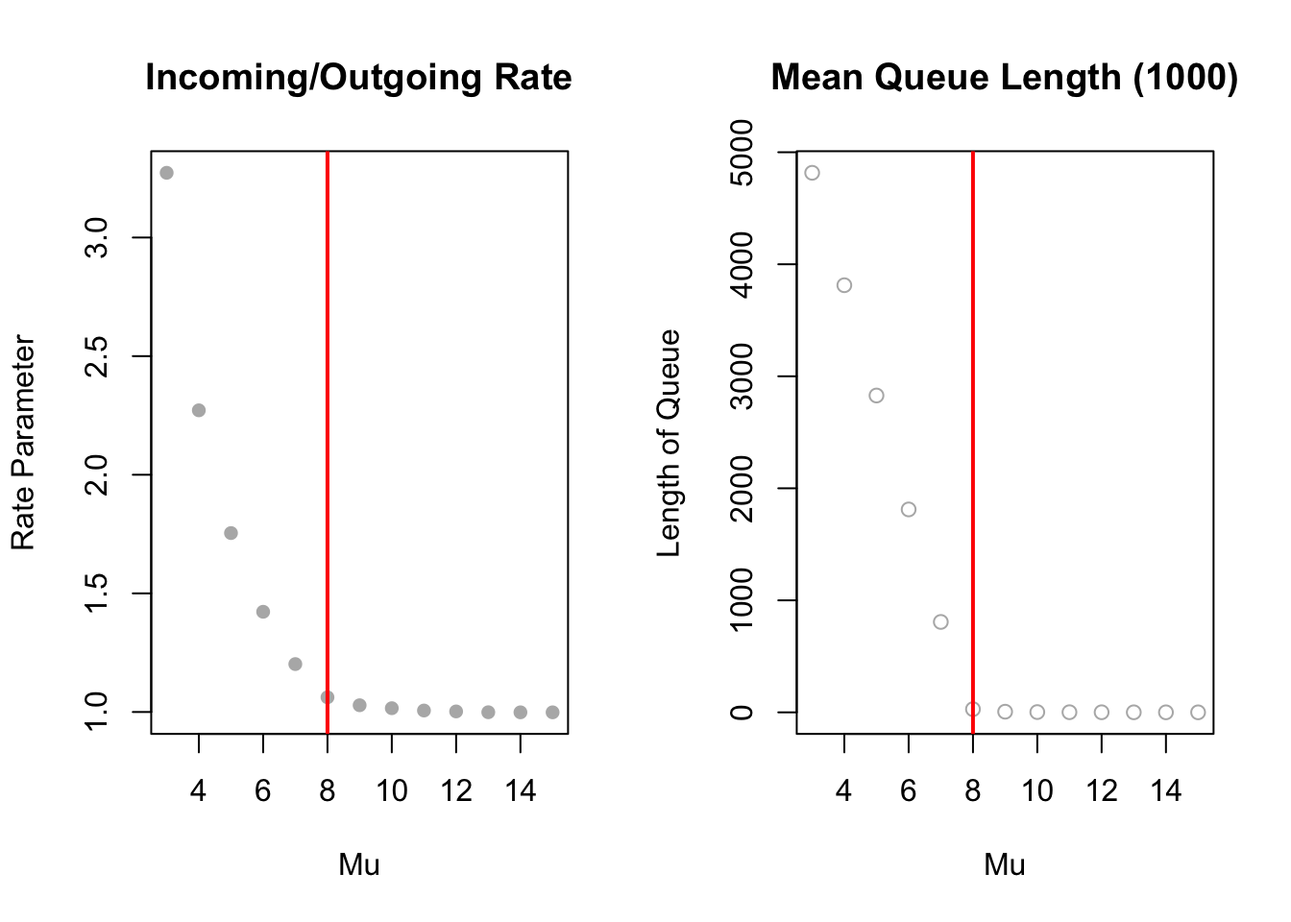
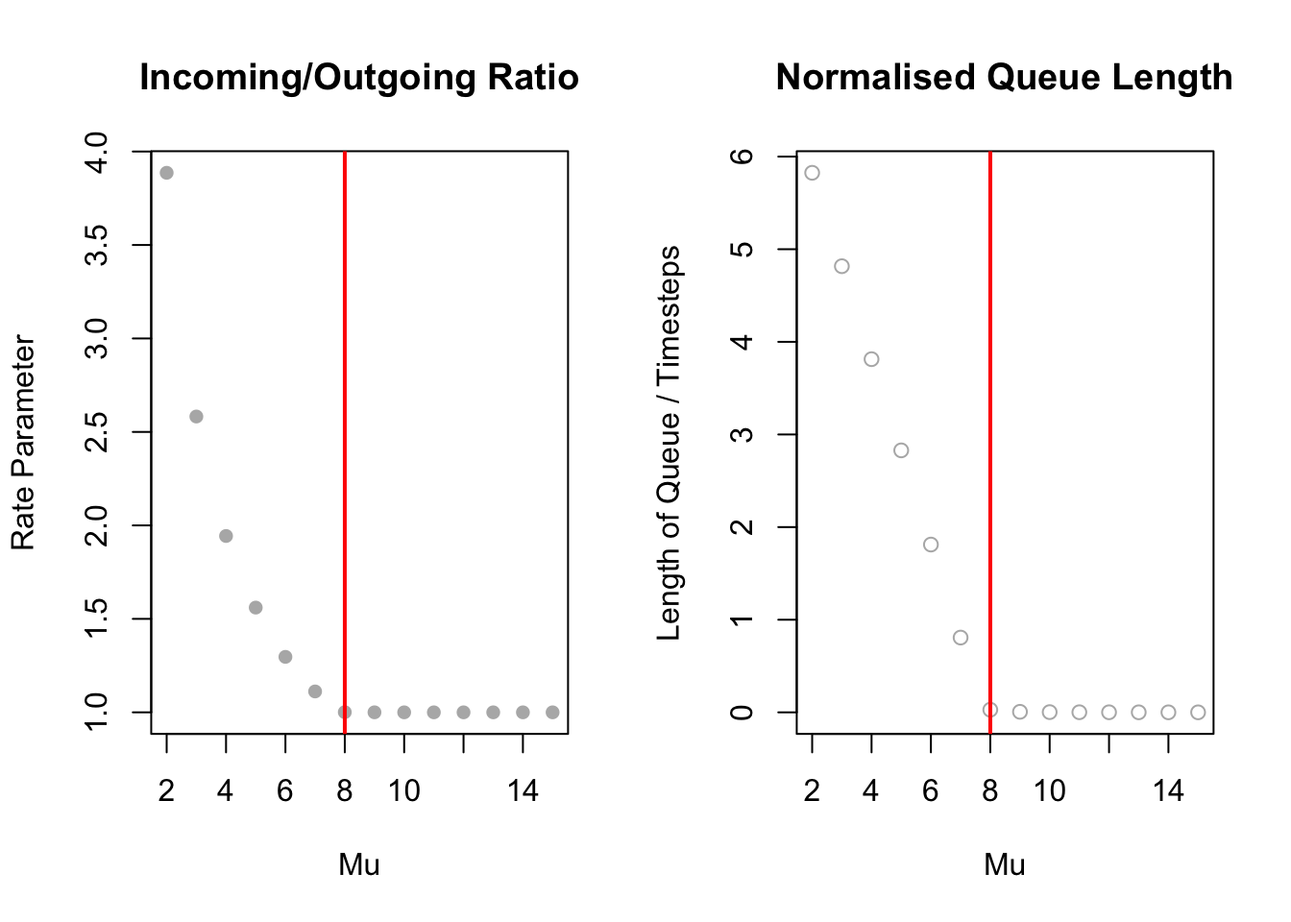
Continued sensitivity analysis

diff --git a/index.html b/index.html
@@ -234,8 +234,8 @@ window.Quarto = {
 <div class="cell-output cell-output-stdout">
 <pre><code>                  Mean Variance
 Dataset       113.2273 161.8030
-NBinom Sim    113.3585 161.2969
-Poisson Sim   113.1233 113.1233</code></pre>
+NBinom Sim    113.3032 160.5631
+Poisson Sim   113.3474 113.3474</code></pre>
 </div>
 </div>
 <p>The Negative Binomial is a much better fit to the original dataset. However, a new concern arises: for the purpose of simulation, we wish to simulate vehicle-counts on a per-minute basis. This will help to increase the granularity of our queuing time results. One possible solution (<em>Method 1</em>) is to simply divide the volume data by 15mins and fit a new model. If we consider this case, our mean will scale by a factor of <span class="math inline">\(\frac{1}{15}\)</span>, and the variance by a factor of <span class="math inline">\(\frac{1}{15^2}\)</span>:</p>
@@ -369,16 +369,9 @@ Departure Rate 3.774242  7.762121  5.790909</code></pre>
 <pre><code>[1] "Maximum length: 1195"</code></pre>
 </div>
 </div>
-<p>While in all cases there is theoretical stability (i.e.&nbsp;the models all return to 0), we can see that a utilisation rate of exactly <span class="math inline">\(1\)</span> is completely unreasonable in a real-world scenario. The 7am model particularly balloons to a queue of just under 1200 vehicles long, with the others reaching more than 400 vehicles each. In reality, a utilisation rate closer to 90% is generally maintained to balance throughput with wait times.</p>
-<p>Focusing on the worst-case scenario (7am), we can reaffirm the visualisions through a summary of the queue length throughout the simulation:</p>
-<div class="cell">
-<div class="code-copy-outer-scaffold"><div class="sourceCode cell-code" id="cb12"><pre class="sourceCode r code-with-copy"><code class="sourceCode r"><span id="cb12-1"><a href="#cb12-1" aria-hidden="true" tabindex="-1"></a><span class="fu">summary</span>(sims[[<span class="dv">2</span>]]<span class="sc">$</span>wlength)</span></code></pre></div><button title="Copy to Clipboard" class="code-copy-button"><i class="bi"></i></button></div>
-<div class="cell-output cell-output-stdout">
-<pre><code>   Min. 1st Qu.  Median    Mean 3rd Qu.    Max. 
-    0.0   530.0   827.0   732.6   995.0  1195.0 </code></pre>
-</div>
-</div>
-<p>This confirms a 100% utilisation rate is unrealistic. We can investigate how sensitive the system is to find a more reasonable mu and its corresponding releaes rate.</p>
+<p>While in all cases there is theoretical stability (i.e.&nbsp;the models will all return to 0), we can see that a utilisation rate of exactly <span class="math inline">\(1\)</span> is completely unreasonable in a real-world scenario. The 7am model particularly balloons to a queue of just under 1200 vehicles long, with the others reaching more than 400 vehicles each. In reality, a utilisation rate closer to 90% is generally maintained to balance throughput with wait times.</p>
+<p>In order to locate a more precise release rate,</p>
+<p>Focusing on the worst-case scenario (7am), we can reaffirm the visualisions through a plot of the ratio of arrival-to-depature counts for a series of release rates <span class="math inline">\(\mu\)</span>. This ratio can be <span class="math inline">\(1\)</span> at minimum as we can only have as many vehicles departing as there were vehicles that have arrived in the first place. However, when the system is past stability this ratio is unbounded.</p>
 <div class="cell">
 <div class="cell-output-display">
 <div>
@@ -387,7 +380,50 @@ Departure Rate 3.774242  7.762121  5.790909</code></pre>
 </figure>
 </div>
 </div>
+<div class="cell-output cell-output-stdout">
+<pre><code>[1] "Recall that the incoming rate is 15.52 with a critical Mu of 7.76"</code></pre>
 </div>
+</div>
+<p>For <span class="math inline">\(\mu &lt; 8\)</span> there is an unbounded exponential growth in the ratio of incoming-to-outgoing vehicles as was expected. For <span class="math inline">\(\mu \geq 8\)</span>, this ratio is clamped at one (ignoring random variation). A larger ratio means there are consistently more vehicles arriving than the system can output, and so if this is above one total breakdown will occur.</p>
+<p>This suggests that the queuing model is highly sensitive to changes in its departure rate past the critical utilisation rate <span class="math inline">\(\rho \geq 1\)</span>. To investigate further, we can shift focus to the normalise queue length plot on the right. Here, notice the linear shape past the same critical point. We can define this region by the line:</p>
+<div class="cell">
+<div class="code-copy-outer-scaffold"><div class="sourceCode cell-code" id="cb13"><pre class="sourceCode r code-with-copy"><code class="sourceCode r"><span id="cb13-1"><a href="#cb13-1" aria-hidden="true" tabindex="-1"></a>slope <span class="ot">&lt;-</span> <span class="fu">lm</span>(meanlength[rmus <span class="sc">&lt;</span> <span class="dv">8</span>] <span class="sc">~</span> rmus[rmus <span class="sc">&lt;</span> <span class="dv">8</span>], )</span>
+<span id="cb13-2"><a href="#cb13-2" aria-hidden="true" tabindex="-1"></a><span class="fu">summary</span>(slope)</span></code></pre></div><button title="Copy to Clipboard" class="code-copy-button"><i class="bi"></i></button></div>
+<div class="cell-output cell-output-stdout">
+<pre><code>
+Call:
+lm(formula = meanlength[rmus &lt; 8] ~ rmus[rmus &lt; 8])
+
+Residuals:
+        1         2         3         4         5         6 
+ 0.001790 -0.004197 -0.005304  0.012694 -0.001638 -0.003345 
+
+Coefficients:
+                Estimate Std. Error t value Pr(&gt;|t|)    
+(Intercept)     7.828457   0.008609   909.3 8.78e-12 ***
+rmus[rmus &lt; 8] -1.002561   0.001789  -560.5 6.08e-11 ***
+---
+Signif. codes:  0 '***' 0.001 '**' 0.01 '*' 0.05 '.' 0.1 ' ' 1
+
+Residual standard error: 0.007483 on 4 degrees of freedom
+Multiple R-squared:      1, Adjusted R-squared:      1 
+F-statistic: 3.142e+05 on 1 and 4 DF,  p-value: 6.079e-11</code></pre>
+</div>
+</div>
+<p>We find a slope of <span class="math inline">\(-1.002 \approx -1\)</span>, suggesting that for every unit increase in <span class="math inline">\(\mu\)</span> getting closer to the critical point, we lose a unit of length in the queue. So interestingly, while the ratio parameter seems to grow exponentially, the relationship between the resulting length of the queue for a given release rate <span class="math inline">\(\mu\)</span> is linear.</p>
+<p>Let’s now shift focus to the sensitivity of the system while <span class="math inline">\(\rho &lt; 1\)</span>.</p>
+<div class="cell">
+<div class="cell-output-display">
+<div>
+<figure class="figure">
+<p><img src="index_files/figure-html/7am%20Analysis%20Continued-1.png" class="img-fluid figure-img" width="672"></p>
+</figure>
+</div>
+</div>
+</div>
+<p>As before, we need this to trend near <span class="math inline">\(1.00\)</span> for long-term values, otherwise we consistently have more cars coming than leaving</p>
+<p>We can see this mimics the exponential growth we saw earlier (it is the same parameter i think?)</p>
+<p>maybe need to do something else more ddata based instead of graphical…</p>
 <p>SPILLBACK STUFFF!!!!</p>
 </section>
 <section id="part-2---transient-response" class="level3">
@@ -405,10 +441,10 @@ Departure Rate 3.774242  7.762121  5.790909</code></pre>
 <p>If we assume that time improvements are uniform across the freeway, we can equate a conservative saving of 2 minutes on the Southern segment. For the following models, we can estimate the net improvement/detriment to commuters by comparing the distribution of on-ramp wait-times with this value.</p>
 <p>Consider the maximum, worst-case model (i.e.&nbsp;at 7am):</p>
 <div class="cell">
-<div class="code-copy-outer-scaffold"><div class="sourceCode cell-code" id="cb14"><pre class="sourceCode r code-with-copy"><code class="sourceCode r"><span id="cb14-1"><a href="#cb14-1" aria-hidden="true" tabindex="-1"></a><span class="co"># testing 90% utilisation</span></span>
-<span id="cb14-2"><a href="#cb14-2" aria-hidden="true" tabindex="-1"></a>sim90 <span class="ot">&lt;-</span> <span class="fu">onRampSimulation</span>(<span class="dv">1000</span>, smu7, ssize7, rmu7 <span class="sc">/</span> <span class="fl">0.9</span>, <span class="dv">2</span>)</span>
-<span id="cb14-3"><a href="#cb14-3" aria-hidden="true" tabindex="-1"></a><span class="fu">hist</span>(sim90<span class="sc">$</span>wtimesavg, <span class="at">main =</span> <span class="st">"7am, p=90%"</span>, <span class="at">xlab=</span><span class="st">"Waiting Time (minutes)"</span>, <span class="at">breaks =</span> <span class="dv">5</span>)</span>
-<span id="cb14-4"><a href="#cb14-4" aria-hidden="true" tabindex="-1"></a><span class="fu">abline</span>(<span class="at">v =</span> <span class="dv">2</span>, <span class="at">lwd =</span> <span class="dv">3</span>, <span class="at">col=</span><span class="st">"red"</span>)</span></code></pre></div><button title="Copy to Clipboard" class="code-copy-button"><i class="bi"></i></button></div>
+<div class="code-copy-outer-scaffold"><div class="sourceCode cell-code" id="cb15"><pre class="sourceCode r code-with-copy"><code class="sourceCode r"><span id="cb15-1"><a href="#cb15-1" aria-hidden="true" tabindex="-1"></a><span class="co"># testing 90% utilisation</span></span>
+<span id="cb15-2"><a href="#cb15-2" aria-hidden="true" tabindex="-1"></a>sim90 <span class="ot">&lt;-</span> <span class="fu">onRampSimulation</span>(<span class="dv">1000</span>, smu7, ssize7, rmu7 <span class="sc">/</span> <span class="fl">0.9</span>, <span class="dv">2</span>)</span>
+<span id="cb15-3"><a href="#cb15-3" aria-hidden="true" tabindex="-1"></a><span class="fu">hist</span>(sim90<span class="sc">$</span>wtimesavg, <span class="at">main =</span> <span class="st">"7am, p=90%"</span>, <span class="at">xlab=</span><span class="st">"Waiting Time (minutes)"</span>, <span class="at">breaks =</span> <span class="dv">5</span>)</span>
+<span id="cb15-4"><a href="#cb15-4" aria-hidden="true" tabindex="-1"></a><span class="fu">abline</span>(<span class="at">v =</span> <span class="dv">2</span>, <span class="at">lwd =</span> <span class="dv">3</span>, <span class="at">col=</span><span class="st">"red"</span>)</span></code></pre></div><button title="Copy to Clipboard" class="code-copy-button"><i class="bi"></i></button></div>
 <div class="cell-output-display">
 <div>
 <figure class="figure">
@@ -416,10 +452,10 @@ Departure Rate 3.774242  7.762121  5.790909</code></pre>
 </figure>
 </div>
 </div>
-<div class="code-copy-outer-scaffold"><div class="sourceCode cell-code" id="cb15"><pre class="sourceCode r code-with-copy"><code class="sourceCode r"><span id="cb15-1"><a href="#cb15-1" aria-hidden="true" tabindex="-1"></a><span class="co"># testing 95% utilisation</span></span>
-<span id="cb15-2"><a href="#cb15-2" aria-hidden="true" tabindex="-1"></a>sim95 <span class="ot">&lt;-</span> <span class="fu">onRampSimulation</span>(<span class="dv">1000</span>, smu7, ssize7, rmu7 <span class="sc">/</span> <span class="fl">0.95</span>, <span class="dv">2</span>)</span>
-<span id="cb15-3"><a href="#cb15-3" aria-hidden="true" tabindex="-1"></a><span class="fu">hist</span>(sim95<span class="sc">$</span>wtimesavg, <span class="at">main =</span> <span class="st">"7am, p=95%"</span>, <span class="at">xlab=</span><span class="st">"Waiting Time (minutes)"</span>, <span class="at">breaks =</span> <span class="dv">10</span>)</span>
-<span id="cb15-4"><a href="#cb15-4" aria-hidden="true" tabindex="-1"></a><span class="fu">abline</span>(<span class="at">v =</span> <span class="dv">2</span>, <span class="at">lwd =</span> <span class="dv">3</span>, <span class="at">col=</span><span class="st">"red"</span>)</span></code></pre></div><button title="Copy to Clipboard" class="code-copy-button"><i class="bi"></i></button></div>
+<div class="code-copy-outer-scaffold"><div class="sourceCode cell-code" id="cb16"><pre class="sourceCode r code-with-copy"><code class="sourceCode r"><span id="cb16-1"><a href="#cb16-1" aria-hidden="true" tabindex="-1"></a><span class="co"># testing 95% utilisation</span></span>
+<span id="cb16-2"><a href="#cb16-2" aria-hidden="true" tabindex="-1"></a>sim95 <span class="ot">&lt;-</span> <span class="fu">onRampSimulation</span>(<span class="dv">1000</span>, smu7, ssize7, rmu7 <span class="sc">/</span> <span class="fl">0.95</span>, <span class="dv">2</span>)</span>
+<span id="cb16-3"><a href="#cb16-3" aria-hidden="true" tabindex="-1"></a><span class="fu">hist</span>(sim95<span class="sc">$</span>wtimesavg, <span class="at">main =</span> <span class="st">"7am, p=95%"</span>, <span class="at">xlab=</span><span class="st">"Waiting Time (minutes)"</span>, <span class="at">breaks =</span> <span class="dv">10</span>)</span>
+<span id="cb16-4"><a href="#cb16-4" aria-hidden="true" tabindex="-1"></a><span class="fu">abline</span>(<span class="at">v =</span> <span class="dv">2</span>, <span class="at">lwd =</span> <span class="dv">3</span>, <span class="at">col=</span><span class="st">"red"</span>)</span></code></pre></div><button title="Copy to Clipboard" class="code-copy-button"><i class="bi"></i></button></div>
 <div class="cell-output-display">
 <div>
 <figure class="figure">
@@ -445,7 +481,7 @@ H_a = p &gt; p_o
 </div>
 <p>For a utilisation rate of 90%, we yield an extremely high p-value – we cannot reject the null and so the proportion of drivers seeing an overall increase in journey time is insignificant. Alternatively, for a 95% utilisation rate we see a p-value much lower than 0.05. Here, we are 95% confident that the true proportion of drivers waiting more than 2-minutes is at least 15.7%, a significant result.</p>
 <div class="cell">
-<div class="code-copy-outer-scaffold"><div class="sourceCode cell-code" id="cb17"><pre class="sourceCode r code-with-copy"><code class="sourceCode r"><span id="cb17-1"><a href="#cb17-1" aria-hidden="true" tabindex="-1"></a><span class="fu">summary</span>(sim95<span class="sc">$</span>wtimesavg)</span></code></pre></div><button title="Copy to Clipboard" class="code-copy-button"><i class="bi"></i></button></div>
+<div class="code-copy-outer-scaffold"><div class="sourceCode cell-code" id="cb18"><pre class="sourceCode r code-with-copy"><code class="sourceCode r"><span id="cb18-1"><a href="#cb18-1" aria-hidden="true" tabindex="-1"></a><span class="fu">summary</span>(sim95<span class="sc">$</span>wtimesavg)</span></code></pre></div><button title="Copy to Clipboard" class="code-copy-button"><i class="bi"></i></button></div>
 <div class="cell-output cell-output-stdout">
 <pre><code>   Min. 1st Qu.  Median    Mean 3rd Qu.    Max. 
  0.0000  0.2374  0.9091  1.1580  1.7374  6.2353 </code></pre>
@@ -456,23 +492,23 @@ H_a = p &gt; p_o
 <section id="other-stufffffff" class="level3">
 <h3 class="anchored" data-anchor-id="other-stufffffff">other stufffffff</h3>
 <div class="cell">
-<div class="code-copy-outer-scaffold"><div class="sourceCode cell-code" id="cb19"><pre class="sourceCode r code-with-copy"><code class="sourceCode r"><span id="cb19-1"><a href="#cb19-1" aria-hidden="true" tabindex="-1"></a><span class="co"># PLOTTING BANK</span></span>
-<span id="cb19-2"><a href="#cb19-2" aria-hidden="true" tabindex="-1"></a>data <span class="ot">&lt;-</span> <span class="fu">onRampSimulation</span>(<span class="at">steps=</span><span class="dv">5000</span>, <span class="at">alambda=</span>smu6, <span class="at">asize=</span>ssize6, <span class="at">rmu=</span>rmu6, <span class="at">c=</span><span class="dv">2</span>)</span>
-<span id="cb19-3"><a href="#cb19-3" aria-hidden="true" tabindex="-1"></a>incoming <span class="ot">&lt;-</span> data<span class="sc">$</span>incoming</span>
-<span id="cb19-4"><a href="#cb19-4" aria-hidden="true" tabindex="-1"></a>outgoing <span class="ot">&lt;-</span> data<span class="sc">$</span>outgoing</span>
-<span id="cb19-5"><a href="#cb19-5" aria-hidden="true" tabindex="-1"></a>wtimesavg <span class="ot">&lt;-</span> data<span class="sc">$</span>wtimesavg</span>
-<span id="cb19-6"><a href="#cb19-6" aria-hidden="true" tabindex="-1"></a>wtimesall <span class="ot">&lt;-</span> data<span class="sc">$</span>wtimesall</span>
-<span id="cb19-7"><a href="#cb19-7" aria-hidden="true" tabindex="-1"></a>wlength <span class="ot">&lt;-</span> data<span class="sc">$</span>wlength</span>
-<span id="cb19-8"><a href="#cb19-8" aria-hidden="true" tabindex="-1"></a></span>
-<span id="cb19-9"><a href="#cb19-9" aria-hidden="true" tabindex="-1"></a><span class="fu">par</span>(<span class="at">mfrow =</span> <span class="fu">c</span>(<span class="dv">1</span>, <span class="dv">2</span>))</span>
-<span id="cb19-10"><a href="#cb19-10" aria-hidden="true" tabindex="-1"></a><span class="co"># queue length plot</span></span>
-<span id="cb19-11"><a href="#cb19-11" aria-hidden="true" tabindex="-1"></a><span class="fu">plot</span>(wlength, <span class="at">type=</span><span class="st">"l"</span>, <span class="at">xlab=</span><span class="st">"Timestep"</span>, <span class="at">ylab=</span><span class="st">"Count of Vehicles"</span>, <span class="at">cex.axis =</span> <span class="fl">0.8</span>, <span class="at">col=</span><span class="st">"#b5b5b5"</span>, <span class="at">main=</span><span class="st">"Length of Queue"</span>)</span>
-<span id="cb19-12"><a href="#cb19-12" aria-hidden="true" tabindex="-1"></a><span class="co"># abline(v = 300, lwd=2, col="#737373")</span></span>
-<span id="cb19-13"><a href="#cb19-13" aria-hidden="true" tabindex="-1"></a></span>
-<span id="cb19-14"><a href="#cb19-14" aria-hidden="true" tabindex="-1"></a><span class="co"># time spent waiting plot</span></span>
-<span id="cb19-15"><a href="#cb19-15" aria-hidden="true" tabindex="-1"></a><span class="fu">plot</span>(wtimesavg, <span class="at">type=</span><span class="st">"l"</span>, <span class="at">xlab=</span><span class="st">"Timestep"</span>, <span class="at">ylab=</span><span class="st">"Time Spent (mins)"</span>, <span class="at">cex.axis =</span> <span class="fl">0.8</span>, <span class="at">col=</span><span class="st">"#b5b5b5"</span>, <span class="at">main =</span> <span class="st">"Timing of Queue"</span>)</span>
-<span id="cb19-16"><a href="#cb19-16" aria-hidden="true" tabindex="-1"></a><span class="co"># abline(v = 300, lwd=2, col="#737373")</span></span>
-<span id="cb19-17"><a href="#cb19-17" aria-hidden="true" tabindex="-1"></a><span class="fu">lines</span>(<span class="fu">cumsum</span>(wtimesavg)<span class="sc">/</span><span class="fu">seq_along</span>(wtimesavg), <span class="at">lwd=</span><span class="dv">2</span>)</span></code></pre></div><button title="Copy to Clipboard" class="code-copy-button"><i class="bi"></i></button></div>
+<div class="code-copy-outer-scaffold"><div class="sourceCode cell-code" id="cb20"><pre class="sourceCode r code-with-copy"><code class="sourceCode r"><span id="cb20-1"><a href="#cb20-1" aria-hidden="true" tabindex="-1"></a><span class="co"># PLOTTING BANK</span></span>
+<span id="cb20-2"><a href="#cb20-2" aria-hidden="true" tabindex="-1"></a>data <span class="ot">&lt;-</span> <span class="fu">onRampSimulation</span>(<span class="at">steps=</span><span class="dv">5000</span>, <span class="at">alambda=</span>smu6, <span class="at">asize=</span>ssize6, <span class="at">rmu=</span>(rmu6 <span class="sc">-</span> <span class="dv">0</span>), <span class="at">c=</span><span class="dv">2</span>)</span>
+<span id="cb20-3"><a href="#cb20-3" aria-hidden="true" tabindex="-1"></a>incoming <span class="ot">&lt;-</span> data<span class="sc">$</span>incoming</span>
+<span id="cb20-4"><a href="#cb20-4" aria-hidden="true" tabindex="-1"></a>outgoing <span class="ot">&lt;-</span> data<span class="sc">$</span>outgoing</span>
+<span id="cb20-5"><a href="#cb20-5" aria-hidden="true" tabindex="-1"></a>wtimesavg <span class="ot">&lt;-</span> data<span class="sc">$</span>wtimesavg</span>
+<span id="cb20-6"><a href="#cb20-6" aria-hidden="true" tabindex="-1"></a>wtimesall <span class="ot">&lt;-</span> data<span class="sc">$</span>wtimesall</span>
+<span id="cb20-7"><a href="#cb20-7" aria-hidden="true" tabindex="-1"></a>wlength <span class="ot">&lt;-</span> data<span class="sc">$</span>wlength</span>
+<span id="cb20-8"><a href="#cb20-8" aria-hidden="true" tabindex="-1"></a></span>
+<span id="cb20-9"><a href="#cb20-9" aria-hidden="true" tabindex="-1"></a><span class="fu">par</span>(<span class="at">mfrow =</span> <span class="fu">c</span>(<span class="dv">1</span>, <span class="dv">2</span>))</span>
+<span id="cb20-10"><a href="#cb20-10" aria-hidden="true" tabindex="-1"></a><span class="co"># queue length plot</span></span>
+<span id="cb20-11"><a href="#cb20-11" aria-hidden="true" tabindex="-1"></a><span class="fu">plot</span>(wlength, <span class="at">type=</span><span class="st">"l"</span>, <span class="at">xlab=</span><span class="st">"Timestep"</span>, <span class="at">ylab=</span><span class="st">"Count of Vehicles"</span>, <span class="at">cex.axis =</span> <span class="fl">0.8</span>, <span class="at">col=</span><span class="st">"#b5b5b5"</span>, <span class="at">main=</span><span class="st">"Length of Queue"</span>)</span>
+<span id="cb20-12"><a href="#cb20-12" aria-hidden="true" tabindex="-1"></a><span class="co"># abline(v = 300, lwd=2, col="#737373")</span></span>
+<span id="cb20-13"><a href="#cb20-13" aria-hidden="true" tabindex="-1"></a></span>
+<span id="cb20-14"><a href="#cb20-14" aria-hidden="true" tabindex="-1"></a><span class="co"># time spent waiting plot</span></span>
+<span id="cb20-15"><a href="#cb20-15" aria-hidden="true" tabindex="-1"></a><span class="fu">plot</span>(wtimesavg, <span class="at">type=</span><span class="st">"l"</span>, <span class="at">xlab=</span><span class="st">"Timestep"</span>, <span class="at">ylab=</span><span class="st">"Time Spent (mins)"</span>, <span class="at">cex.axis =</span> <span class="fl">0.8</span>, <span class="at">col=</span><span class="st">"#b5b5b5"</span>, <span class="at">main =</span> <span class="st">"Timing of Queue"</span>)</span>
+<span id="cb20-16"><a href="#cb20-16" aria-hidden="true" tabindex="-1"></a><span class="co"># abline(v = 300, lwd=2, col="#737373")</span></span>
+<span id="cb20-17"><a href="#cb20-17" aria-hidden="true" tabindex="-1"></a><span class="fu">lines</span>(<span class="fu">cumsum</span>(wtimesavg)<span class="sc">/</span><span class="fu">seq_along</span>(wtimesavg), <span class="at">lwd=</span><span class="dv">2</span>)</span></code></pre></div><button title="Copy to Clipboard" class="code-copy-button"><i class="bi"></i></button></div>
 <div class="cell-output-display">
 <div>
 <figure class="figure">
@@ -480,15 +516,15 @@ H_a = p &gt; p_o
 </figure>
 </div>
 </div>
-<div class="code-copy-outer-scaffold"><div class="sourceCode cell-code" id="cb20"><pre class="sourceCode r code-with-copy"><code class="sourceCode r"><span id="cb20-1"><a href="#cb20-1" aria-hidden="true" tabindex="-1"></a><span class="co"># lines(movingavg, col="blue", lwd=2)</span></span>
-<span id="cb20-2"><a href="#cb20-2" aria-hidden="true" tabindex="-1"></a></span>
-<span id="cb20-3"><a href="#cb20-3" aria-hidden="true" tabindex="-1"></a><span class="co"># hysteresis plot</span></span>
-<span id="cb20-4"><a href="#cb20-4" aria-hidden="true" tabindex="-1"></a><span class="fu">plot</span>(wlength, wtimesavg)</span>
-<span id="cb20-5"><a href="#cb20-5" aria-hidden="true" tabindex="-1"></a></span>
-<span id="cb20-6"><a href="#cb20-6" aria-hidden="true" tabindex="-1"></a><span class="co"># incoming vs outgoing</span></span>
-<span id="cb20-7"><a href="#cb20-7" aria-hidden="true" tabindex="-1"></a><span class="fu">plot</span>(<span class="fu">cumsum</span>(incoming), <span class="at">type=</span><span class="st">"l"</span>, <span class="at">col=</span><span class="st">"red"</span>, <span class="at">xlab=</span><span class="st">"Timestep"</span>, <span class="at">ylab=</span><span class="st">"Cumulative Count"</span>, <span class="at">main=</span><span class="st">"Arrivals and Departures"</span>)</span>
-<span id="cb20-8"><a href="#cb20-8" aria-hidden="true" tabindex="-1"></a><span class="fu">lines</span>(<span class="fu">cumsum</span>(outgoing), <span class="at">type=</span><span class="st">"l"</span>, <span class="at">col=</span><span class="st">"blue"</span>)</span>
-<span id="cb20-9"><a href="#cb20-9" aria-hidden="true" tabindex="-1"></a><span class="fu">legend</span>(<span class="st">"bottomright"</span>, <span class="at">legend=</span><span class="fu">c</span>(<span class="st">"Arrivals"</span>, <span class="st">"Departures"</span>), <span class="at">col=</span><span class="fu">c</span>(<span class="st">"red"</span>, <span class="st">"blue"</span>), <span class="at">lty=</span><span class="dv">1</span>, <span class="at">bty=</span><span class="st">"n"</span>)</span></code></pre></div><button title="Copy to Clipboard" class="code-copy-button"><i class="bi"></i></button></div>
+<div class="code-copy-outer-scaffold"><div class="sourceCode cell-code" id="cb21"><pre class="sourceCode r code-with-copy"><code class="sourceCode r"><span id="cb21-1"><a href="#cb21-1" aria-hidden="true" tabindex="-1"></a><span class="co"># lines(movingavg, col="blue", lwd=2)</span></span>
+<span id="cb21-2"><a href="#cb21-2" aria-hidden="true" tabindex="-1"></a></span>
+<span id="cb21-3"><a href="#cb21-3" aria-hidden="true" tabindex="-1"></a><span class="co"># hysteresis plot</span></span>
+<span id="cb21-4"><a href="#cb21-4" aria-hidden="true" tabindex="-1"></a><span class="fu">plot</span>(wlength, wtimesavg)</span>
+<span id="cb21-5"><a href="#cb21-5" aria-hidden="true" tabindex="-1"></a></span>
+<span id="cb21-6"><a href="#cb21-6" aria-hidden="true" tabindex="-1"></a><span class="co"># incoming vs outgoing</span></span>
+<span id="cb21-7"><a href="#cb21-7" aria-hidden="true" tabindex="-1"></a><span class="fu">plot</span>(<span class="fu">cumsum</span>(incoming), <span class="at">type=</span><span class="st">"l"</span>, <span class="at">col=</span><span class="st">"red"</span>, <span class="at">xlab=</span><span class="st">"Timestep"</span>, <span class="at">ylab=</span><span class="st">"Cumulative Count"</span>, <span class="at">main=</span><span class="st">"Arrivals and Departures"</span>)</span>
+<span id="cb21-8"><a href="#cb21-8" aria-hidden="true" tabindex="-1"></a><span class="fu">lines</span>(<span class="fu">cumsum</span>(outgoing), <span class="at">type=</span><span class="st">"l"</span>, <span class="at">col=</span><span class="st">"blue"</span>)</span>
+<span id="cb21-9"><a href="#cb21-9" aria-hidden="true" tabindex="-1"></a><span class="fu">legend</span>(<span class="st">"bottomright"</span>, <span class="at">legend=</span><span class="fu">c</span>(<span class="st">"Arrivals"</span>, <span class="st">"Departures"</span>), <span class="at">col=</span><span class="fu">c</span>(<span class="st">"red"</span>, <span class="st">"blue"</span>), <span class="at">lty=</span><span class="dv">1</span>, <span class="at">bty=</span><span class="st">"n"</span>)</span></code></pre></div><button title="Copy to Clipboard" class="code-copy-button"><i class="bi"></i></button></div>
 <div class="cell-output-display">
 <div>
 <figure class="figure">
@@ -496,13 +532,13 @@ H_a = p &gt; p_o
 </figure>
 </div>
 </div>
-<div class="code-copy-outer-scaffold"><div class="sourceCode cell-code" id="cb21"><pre class="sourceCode r code-with-copy"><code class="sourceCode r"><span id="cb21-1"><a href="#cb21-1" aria-hidden="true" tabindex="-1"></a><span class="co"># t.test(lm(cumsum(outgoing[1:100]) ~ seq(1, 100)), lm(cumsum(outgoing[200:300]) ~ seq(200:300)), paired = TRUE)</span></span>
-<span id="cb21-2"><a href="#cb21-2" aria-hidden="true" tabindex="-1"></a></span>
-<span id="cb21-3"><a href="#cb21-3" aria-hidden="true" tabindex="-1"></a><span class="co"># another incoming vs outgoing</span></span>
-<span id="cb21-4"><a href="#cb21-4" aria-hidden="true" tabindex="-1"></a><span class="fu">plot</span>(<span class="fu">cumsum</span>(outgoing), <span class="fu">cumsum</span>(incoming), <span class="at">type=</span><span class="st">"l"</span>)</span>
-<span id="cb21-5"><a href="#cb21-5" aria-hidden="true" tabindex="-1"></a></span>
-<span id="cb21-6"><a href="#cb21-6" aria-hidden="true" tabindex="-1"></a><span class="co"># one more</span></span>
-<span id="cb21-7"><a href="#cb21-7" aria-hidden="true" tabindex="-1"></a><span class="fu">plot</span>(<span class="fu">cumsum</span>(incoming) <span class="sc">/</span> <span class="fu">cumsum</span>(outgoing))</span></code></pre></div><button title="Copy to Clipboard" class="code-copy-button"><i class="bi"></i></button></div>
+<div class="code-copy-outer-scaffold"><div class="sourceCode cell-code" id="cb22"><pre class="sourceCode r code-with-copy"><code class="sourceCode r"><span id="cb22-1"><a href="#cb22-1" aria-hidden="true" tabindex="-1"></a><span class="co"># t.test(lm(cumsum(outgoing[1:100]) ~ seq(1, 100)), lm(cumsum(outgoing[200:300]) ~ seq(200:300)), paired = TRUE)</span></span>
+<span id="cb22-2"><a href="#cb22-2" aria-hidden="true" tabindex="-1"></a></span>
+<span id="cb22-3"><a href="#cb22-3" aria-hidden="true" tabindex="-1"></a><span class="co"># another incoming vs outgoing</span></span>
+<span id="cb22-4"><a href="#cb22-4" aria-hidden="true" tabindex="-1"></a><span class="fu">plot</span>(<span class="fu">cumsum</span>(outgoing), <span class="fu">cumsum</span>(incoming), <span class="at">type=</span><span class="st">"l"</span>)</span>
+<span id="cb22-5"><a href="#cb22-5" aria-hidden="true" tabindex="-1"></a></span>
+<span id="cb22-6"><a href="#cb22-6" aria-hidden="true" tabindex="-1"></a><span class="co"># one more</span></span>
+<span id="cb22-7"><a href="#cb22-7" aria-hidden="true" tabindex="-1"></a><span class="fu">plot</span>(<span class="fu">cumsum</span>(incoming) <span class="sc">/</span> <span class="fu">cumsum</span>(outgoing))</span></code></pre></div><button title="Copy to Clipboard" class="code-copy-button"><i class="bi"></i></button></div>
 <div class="cell-output-display">
 <div>
 <figure class="figure">
@@ -510,10 +546,10 @@ H_a = p &gt; p_o
 </figure>
 </div>
 </div>
-<div class="code-copy-outer-scaffold"><div class="sourceCode cell-code" id="cb22"><pre class="sourceCode r code-with-copy"><code class="sourceCode r"><span id="cb22-1"><a href="#cb22-1" aria-hidden="true" tabindex="-1"></a><span class="fu">plot</span>(incoming <span class="sc">/</span> outgoing)</span>
-<span id="cb22-2"><a href="#cb22-2" aria-hidden="true" tabindex="-1"></a></span>
-<span id="cb22-3"><a href="#cb22-3" aria-hidden="true" tabindex="-1"></a><span class="co"># level of service</span></span>
-<span id="cb22-4"><a href="#cb22-4" aria-hidden="true" tabindex="-1"></a><span class="fu">hist</span>(wtimesall)</span></code></pre></div><button title="Copy to Clipboard" class="code-copy-button"><i class="bi"></i></button></div>
+<div class="code-copy-outer-scaffold"><div class="sourceCode cell-code" id="cb23"><pre class="sourceCode r code-with-copy"><code class="sourceCode r"><span id="cb23-1"><a href="#cb23-1" aria-hidden="true" tabindex="-1"></a><span class="fu">plot</span>(incoming <span class="sc">/</span> outgoing)</span>
+<span id="cb23-2"><a href="#cb23-2" aria-hidden="true" tabindex="-1"></a></span>
+<span id="cb23-3"><a href="#cb23-3" aria-hidden="true" tabindex="-1"></a><span class="co"># level of service</span></span>
+<span id="cb23-4"><a href="#cb23-4" aria-hidden="true" tabindex="-1"></a><span class="fu">hist</span>(wtimesall)</span></code></pre></div><button title="Copy to Clipboard" class="code-copy-button"><i class="bi"></i></button></div>
 <div class="cell-output-display">
 <div>
 <figure class="figure">
@@ -521,30 +557,39 @@ H_a = p &gt; p_o
 </figure>
 </div>
 </div>
-<div class="code-copy-outer-scaffold"><div class="sourceCode cell-code" id="cb23"><pre class="sourceCode r code-with-copy"><code class="sourceCode r"><span id="cb23-1"><a href="#cb23-1" aria-hidden="true" tabindex="-1"></a><span class="co"># SENSITIVITY THING I DIDNT LIKE</span></span>
-<span id="cb23-2"><a href="#cb23-2" aria-hidden="true" tabindex="-1"></a>steps <span class="ot">&lt;-</span> <span class="dv">1000</span></span>
-<span id="cb23-3"><a href="#cb23-3" aria-hidden="true" tabindex="-1"></a>rmus <span class="ot">&lt;-</span> <span class="fu">c</span>(<span class="dv">6</span>, <span class="dv">7</span>, <span class="dv">8</span>)</span>
-<span id="cb23-4"><a href="#cb23-4" aria-hidden="true" tabindex="-1"></a>count <span class="ot">&lt;-</span> <span class="fu">length</span>(rmus)</span>
-<span id="cb23-5"><a href="#cb23-5" aria-hidden="true" tabindex="-1"></a>c <span class="ot">&lt;-</span> <span class="dv">2</span></span>
-<span id="cb23-6"><a href="#cb23-6" aria-hidden="true" tabindex="-1"></a></span>
-<span id="cb23-7"><a href="#cb23-7" aria-hidden="true" tabindex="-1"></a>sims <span class="ot">&lt;-</span> <span class="fu">runMultiSims</span>(steps, <span class="fu">rep</span>(smu7, count), <span class="fu">rep</span>(ssize7, count), rmus, c)<span class="sc">$</span>sims</span>
-<span id="cb23-8"><a href="#cb23-8" aria-hidden="true" tabindex="-1"></a></span>
-<span id="cb23-9"><a href="#cb23-9" aria-hidden="true" tabindex="-1"></a><span class="fu">par</span>(<span class="at">mfrow =</span> <span class="fu">c</span>(<span class="dv">1</span>, count))</span>
-<span id="cb23-10"><a href="#cb23-10" aria-hidden="true" tabindex="-1"></a><span class="cf">for</span> (i <span class="cf">in</span> <span class="fu">seq_along</span>(rmus)) {</span>
-<span id="cb23-11"><a href="#cb23-11" aria-hidden="true" tabindex="-1"></a>  <span class="fu">plot</span>(</span>
-<span id="cb23-12"><a href="#cb23-12" aria-hidden="true" tabindex="-1"></a>    sims[[i]]<span class="sc">$</span>wlength,</span>
-<span id="cb23-13"><a href="#cb23-13" aria-hidden="true" tabindex="-1"></a>    <span class="at">type =</span> <span class="st">"l"</span>,</span>
-<span id="cb23-14"><a href="#cb23-14" aria-hidden="true" tabindex="-1"></a>    <span class="at">xlab =</span> <span class="st">"Timestep"</span>,</span>
-<span id="cb23-15"><a href="#cb23-15" aria-hidden="true" tabindex="-1"></a>    <span class="at">ylab =</span> <span class="st">"Count of Vehicles"</span>,</span>
-<span id="cb23-16"><a href="#cb23-16" aria-hidden="true" tabindex="-1"></a>    <span class="at">cex.axis =</span> <span class="fl">0.8</span>,</span>
-<span id="cb23-17"><a href="#cb23-17" aria-hidden="true" tabindex="-1"></a>    <span class="at">col =</span> <span class="st">"#b5b5b5"</span>,</span>
-<span id="cb23-18"><a href="#cb23-18" aria-hidden="true" tabindex="-1"></a>    <span class="at">main =</span> <span class="fu">paste</span>(<span class="st">"Mu ="</span>, <span class="fu">round</span>(rmus[i], <span class="dv">2</span>))</span>
-<span id="cb23-19"><a href="#cb23-19" aria-hidden="true" tabindex="-1"></a>  )</span>
-<span id="cb23-20"><a href="#cb23-20" aria-hidden="true" tabindex="-1"></a>}</span></code></pre></div><button title="Copy to Clipboard" class="code-copy-button"><i class="bi"></i></button></div>
+<div class="code-copy-outer-scaffold"><div class="sourceCode cell-code" id="cb24"><pre class="sourceCode r code-with-copy"><code class="sourceCode r"><span id="cb24-1"><a href="#cb24-1" aria-hidden="true" tabindex="-1"></a><span class="fu">plot</span>(<span class="fu">cumsum</span>(incoming) <span class="sc">/</span> <span class="fu">cumsum</span>(outgoing))</span>
+<span id="cb24-2"><a href="#cb24-2" aria-hidden="true" tabindex="-1"></a></span>
+<span id="cb24-3"><a href="#cb24-3" aria-hidden="true" tabindex="-1"></a><span class="co"># SENSITIVITY THING I DIDNT LIKE</span></span>
+<span id="cb24-4"><a href="#cb24-4" aria-hidden="true" tabindex="-1"></a>steps <span class="ot">&lt;-</span> <span class="dv">1000</span></span>
+<span id="cb24-5"><a href="#cb24-5" aria-hidden="true" tabindex="-1"></a>rmus <span class="ot">&lt;-</span> <span class="fu">c</span>(<span class="dv">6</span>, <span class="dv">7</span>, <span class="dv">8</span>)</span>
+<span id="cb24-6"><a href="#cb24-6" aria-hidden="true" tabindex="-1"></a>count <span class="ot">&lt;-</span> <span class="fu">length</span>(rmus)</span>
+<span id="cb24-7"><a href="#cb24-7" aria-hidden="true" tabindex="-1"></a>c <span class="ot">&lt;-</span> <span class="dv">2</span></span>
+<span id="cb24-8"><a href="#cb24-8" aria-hidden="true" tabindex="-1"></a></span>
+<span id="cb24-9"><a href="#cb24-9" aria-hidden="true" tabindex="-1"></a>sims <span class="ot">&lt;-</span> <span class="fu">runMultiSims</span>(steps, <span class="fu">rep</span>(smu7, count), <span class="fu">rep</span>(ssize7, count), rmus, c)<span class="sc">$</span>sims</span>
+<span id="cb24-10"><a href="#cb24-10" aria-hidden="true" tabindex="-1"></a></span>
+<span id="cb24-11"><a href="#cb24-11" aria-hidden="true" tabindex="-1"></a><span class="fu">par</span>(<span class="at">mfrow =</span> <span class="fu">c</span>(<span class="dv">1</span>, count))</span></code></pre></div><button title="Copy to Clipboard" class="code-copy-button"><i class="bi"></i></button></div>
 <div class="cell-output-display">
 <div>
 <figure class="figure">
 <p><img src="index_files/figure-html/unnamed-chunk-2-5.png" class="img-fluid figure-img" width="672"></p>
+</figure>
+</div>
+</div>
+<div class="code-copy-outer-scaffold"><div class="sourceCode cell-code" id="cb25"><pre class="sourceCode r code-with-copy"><code class="sourceCode r"><span id="cb25-1"><a href="#cb25-1" aria-hidden="true" tabindex="-1"></a><span class="cf">for</span> (i <span class="cf">in</span> <span class="fu">seq_along</span>(rmus)) {</span>
+<span id="cb25-2"><a href="#cb25-2" aria-hidden="true" tabindex="-1"></a>  <span class="fu">plot</span>(</span>
+<span id="cb25-3"><a href="#cb25-3" aria-hidden="true" tabindex="-1"></a>    sims[[i]]<span class="sc">$</span>wlength,</span>
+<span id="cb25-4"><a href="#cb25-4" aria-hidden="true" tabindex="-1"></a>    <span class="at">type =</span> <span class="st">"l"</span>,</span>
+<span id="cb25-5"><a href="#cb25-5" aria-hidden="true" tabindex="-1"></a>    <span class="at">xlab =</span> <span class="st">"Timestep"</span>,</span>
+<span id="cb25-6"><a href="#cb25-6" aria-hidden="true" tabindex="-1"></a>    <span class="at">ylab =</span> <span class="st">"Count of Vehicles"</span>,</span>
+<span id="cb25-7"><a href="#cb25-7" aria-hidden="true" tabindex="-1"></a>    <span class="at">cex.axis =</span> <span class="fl">0.8</span>,</span>
+<span id="cb25-8"><a href="#cb25-8" aria-hidden="true" tabindex="-1"></a>    <span class="at">col =</span> <span class="st">"#b5b5b5"</span>,</span>
+<span id="cb25-9"><a href="#cb25-9" aria-hidden="true" tabindex="-1"></a>    <span class="at">main =</span> <span class="fu">paste</span>(<span class="st">"Mu ="</span>, <span class="fu">round</span>(rmus[i], <span class="dv">2</span>))</span>
+<span id="cb25-10"><a href="#cb25-10" aria-hidden="true" tabindex="-1"></a>  )</span>
+<span id="cb25-11"><a href="#cb25-11" aria-hidden="true" tabindex="-1"></a>}</span></code></pre></div><button title="Copy to Clipboard" class="code-copy-button"><i class="bi"></i></button></div>
+<div class="cell-output-display">
+<div>
+<figure class="figure">
+<p><img src="index_files/figure-html/unnamed-chunk-2-6.png" class="img-fluid figure-img" width="672"></p>
 </figure>
 </div>
 </div>
